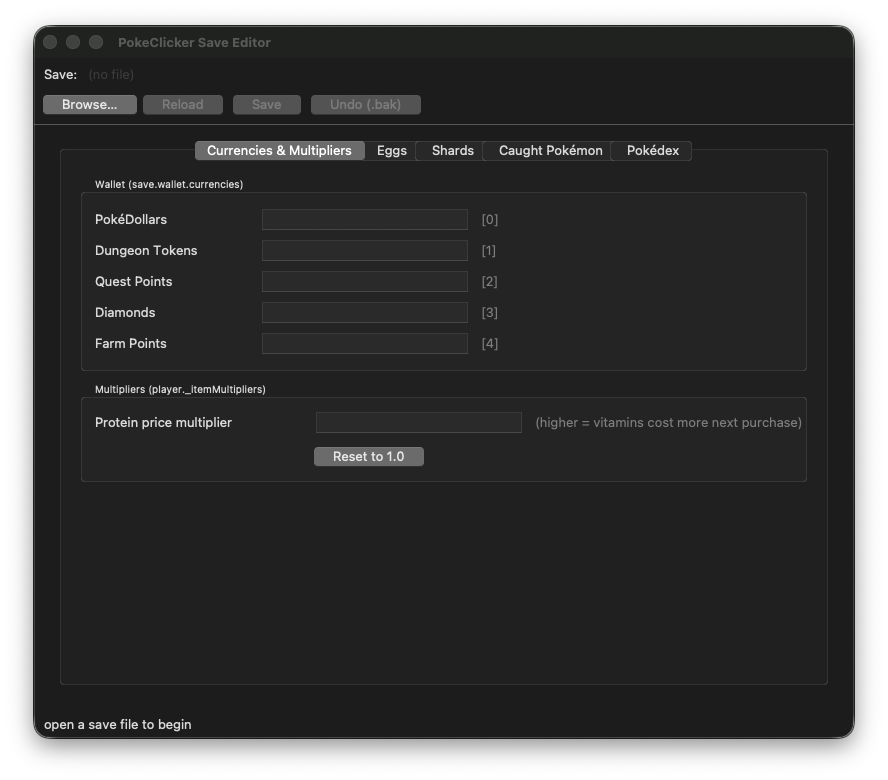
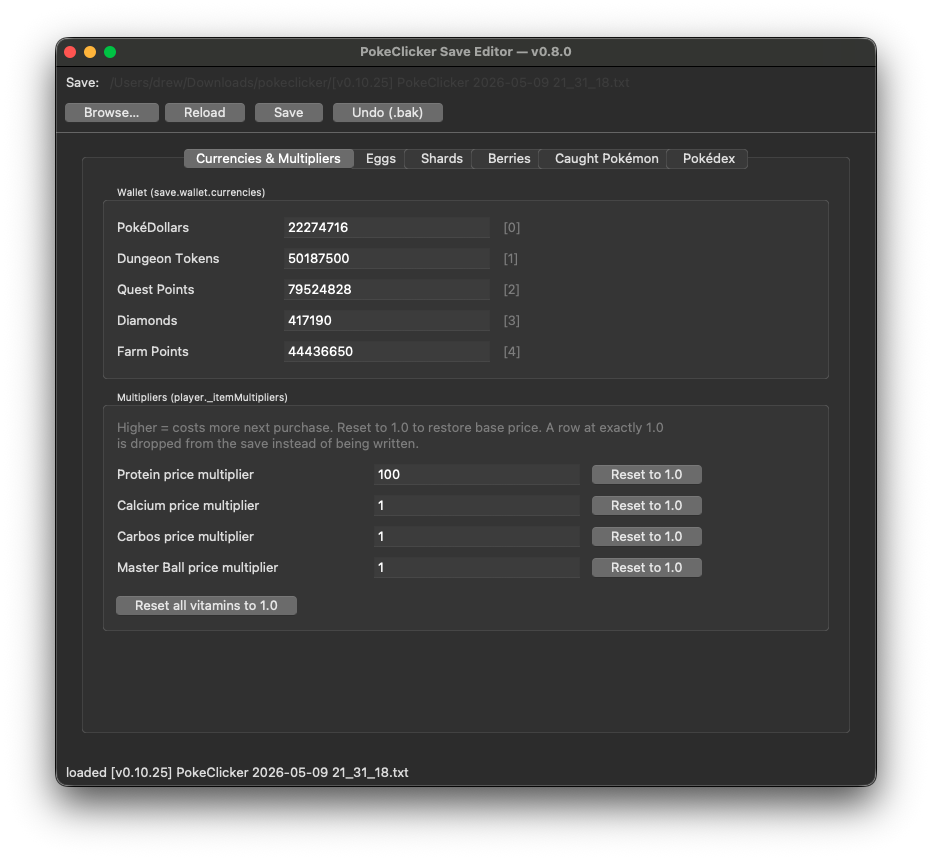
Refresh README screenshots for v0.8.0 (six tabs + Berries)
Replaces the v0.6.x-era hero shot with a fresh capture taken from a
locally-built v0.8.0 .app: six-tab notebook visible, Currencies tab
populated with real values, save path in the top bar. Adjusts the
surrounding bullet list to describe the loaded state (the previous
text described the empty first-launch state, which the new screenshot
no longer shows).

Adds a dedicated screenshot of the new Berries tab right after the
"Tabs" table — sortable Treeview, mulch + shovels frame visible.

Changed region(s): [[0.0304, 0.0308, 0.973, 0.9846], [0.3041, 0.2462, 0.3953, 0.4308], [0.5473, 0.2462, 0.5777, 0.4308]]

diff --git a/README.md b/README.md
@@ -133,19 +133,21 @@ python3 pcedit_gui.py path/to/save.txt             # auto-load on launch
 
 #### Opening a save
 
-![PokeClicker Save Editor on first launch — top bar with Browse/Reload/Save/Undo, the Currencies & Multipliers tab visible, and "open a save file to begin" in the status bar.](screenshots/clicker-editor-ui.png)
+![PokeClicker Save Editor v0.8.0 with a save loaded — top bar shows the save path and Browse/Reload/Save/Undo, the six-tab notebook (Currencies & Multipliers, Eggs, Shards, Berries, Caught Pokémon, Pokédex) is visible, and the Currencies tab is populated with real Pokédollar / Dungeon Token / Quest Point / Diamond / Farm Point values.](screenshots/clicker-editor-ui.png)
 
-On first launch the window looks like the screenshot above:
+After loading a save, the window looks like the screenshot above:
 
-1. **Row 1** of the top bar shows `Save: (no file)` — that's where the
-   loaded path will appear.
-2. **Row 2** has four action buttons. Only **Browse…** is enabled until a
-   save is loaded; **Reload**, **Save**, and **Undo (.bak)** are greyed out
-   on purpose.
+1. **Row 1** of the top bar shows the loaded save path. Before any file is
+   open it reads `Save: (no file)`.
+2. **Row 2** has four action buttons. **Browse…** is always enabled;
+   **Reload**, **Save**, and **Undo (.bak)** activate once a save is open
+   and grey out otherwise.
 3. The notebook below has six tabs (Currencies & Multipliers, Eggs,
-   Shards, Berries, Caught Pokémon, Pokédex). Their fields are empty until a
+   Shards, Berries, Caught Pokémon, Pokédex). Tab fields populate from the
+   loaded save.
+4. The status bar at the bottom shows what just happened — `loaded …`,
+   `saved …`, `restored …` — or `open a save file to begin` before any
    file is open.
-4. The status bar at the bottom reads `open a save file to begin`.
 
 To open a save:
 
@@ -180,6 +182,8 @@ re-loads — handy if a save you just wrote causes the game to misbehave.
 
 The status bar at the bottom of the window shows what just happened
 (`loaded …`, `saved …`, `restored …`, etc.).
+
+![Berries tab — sortable Treeview listing all 70 BerryType entries with their inventory counts and unlocked checkboxes; below it is the mulch + shovels frame with one cell per MulchType slot.](screenshots/berries-tab.png)
 
 #### Menubar
 
